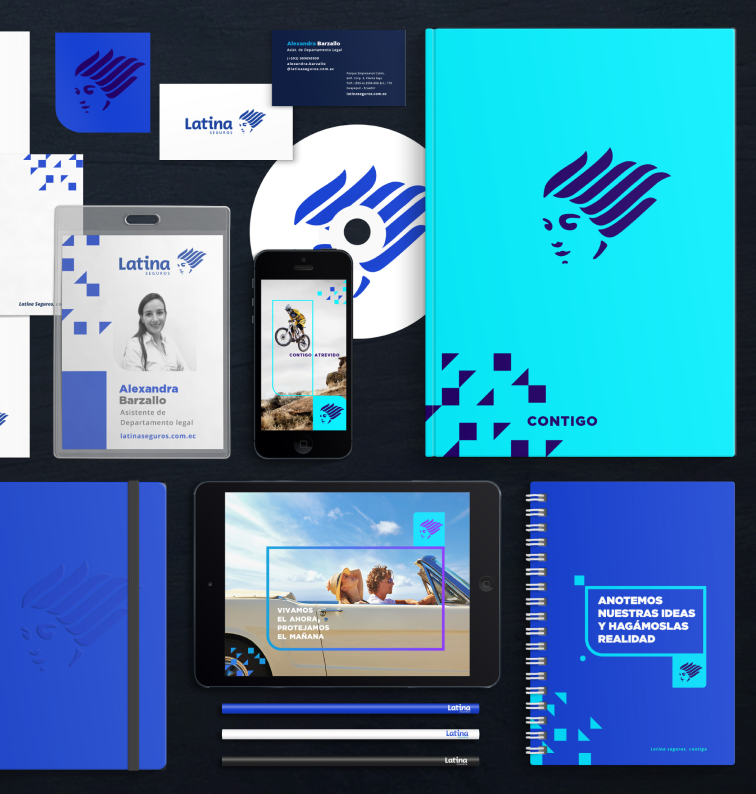
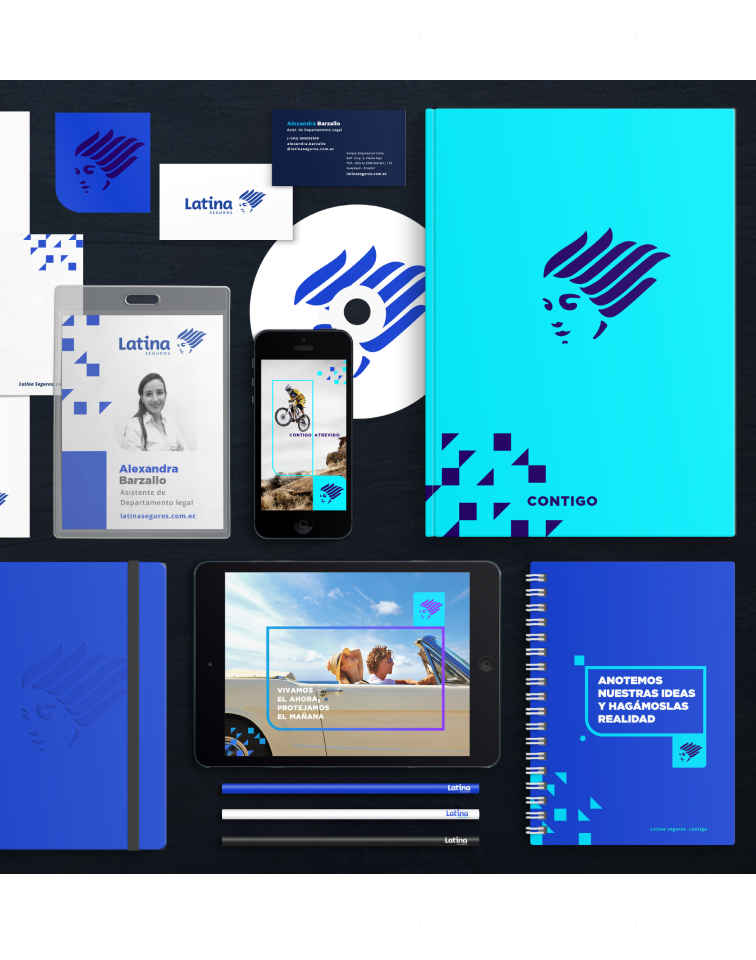
cambios

diff --git a/styles.css b/styles.css
@@ -211,19 +211,19 @@ p{
 
 .img_latina{
     width: 378px;
-    height: 397px;
+    height: 480px;
     text-align: center;
     margin: 0 0 15px auto;
     position: relative;
     left: 0%;
-    top: 120px;
+    top: 100px;
 }
 
 .wrapper-latina2{
     max-width: 80%;
     position: relative;
     left: 8%;
-    top: 15%;
+    top: 12%;
 }
 
 .clientes{
